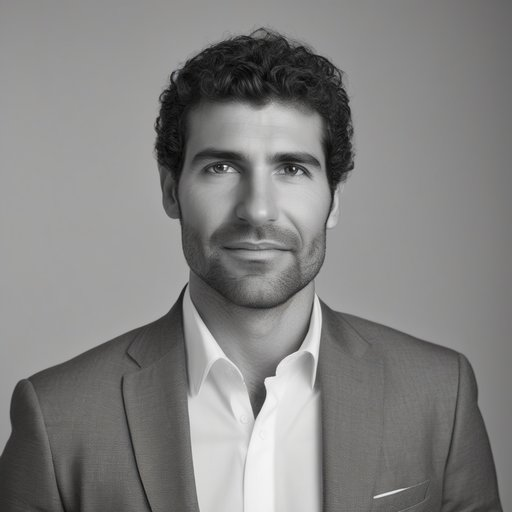
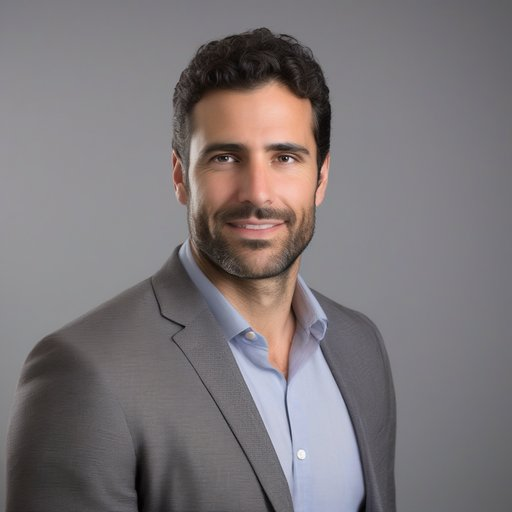
Regenerar en color las dos caras grises con un intento en la lista, sin tocar la regla de la seed (#19)
EMP000009 y EMP000362 salieron casi en blanco y negro (saturacion media 3
frente a 15-50 del resto). La seed sale de la matricula y eso no cambia:
poblacion.txt admite un septimo campo, el intento, que entra en el hash de la
seed cuando no es 0. Las otras 158 tienen el hash de siempre. La franja de
edad sigue saliendo de la matricula sola: se corrige la foto, no la persona.
El paso poblacion conserva los intentos al reescribir la lista.

Con intento 1 las dos salen en color (saturacion 44 y 22).

diff --git a/tools/fotos/generar_fotos.py b/tools/fotos/generar_fotos.py
@@ -53,6 +53,15 @@ DETERMINISMO
     EMP000025 en la misma máquina da la misma cara. Entre máquinas o tarjetas distintas no es
     reproducible bit a bit, y por eso los JPEG van al repositorio.
 
+INTENTO
+    Si una cara sale mal (la primera tanda dio dos casi en blanco y negro, EMP000009 y EMP000362),
+    no se retoca a mano ni se cambia la regla: poblacion.txt admite un séptimo campo, el intento,
+    que entra en el hash de la seed. «EMP000009|...|1» es la seed de «EMP000009|1»; sin campo, o
+    con 0, es la de siempre, así que las demás no se mueven. La franja de edad NO lo usa: sigue
+    saliendo de la matrícula sola, porque lo que se corrige es la foto, no la persona.
+        python tools/fotos/generar_fotos.py caras --solo EMP000009 EMP000362
+    El paso «poblacion» conserva los intentos que ya haya en la lista al reescribirla.
+
 SEXO
     employee.employee no tiene sexo ni fecha de nacimiento. Se deduce del nombre de pila con la
     tabla NOMBRES, que tiene los 42 de la semilla. Ante un nombre que no esté en la tabla el script
@@ -211,32 +220,37 @@ def poblacion(args: argparse.Namespace) -> None:
     if desconocidos:
         sys.exit("Nombres que no están en la tabla NOMBRES (no se adivina): " + ", ".join(desconocidos))
 
+    intentos = {m: i for m, _, i in leer_poblacion(comprobar=False)} if POBLACION.exists() else {}
     lineas = [
         "# Quién lleva cara en la semilla, y por qué (workforce-loader#19).",
         f"# La escribe tools/fotos/generar_fotos.py poblacion, desde la base {args.base}"
         + (f", restaurada de {args.semilla}." if args.semilla else "."),
         f"# Estado y centro medidos al {FECHA_DEL_ESTADO}. Una matrícula por línea, en su orden:",
-        "# matricula|nombre|sexo|centro|estado|motivo",
+        "# matricula|nombre|sexo|centro|estado|motivo[|intento]",
+        "# El intento, si está, entra en la seed de la cara (ver INTENTO en el script).",
     ]
     for matricula in sorted(motivos):
         _, nombre, centro, estado = filas[matricula]
-        lineas.append("|".join([matricula, nombre, NOMBRES[nombre], centro, estado,
-                                "; ".join(motivos[matricula])]))
+        campos = [matricula, nombre, NOMBRES[nombre], centro, estado, "; ".join(motivos[matricula])]
+        if intentos.get(matricula):
+            campos.append(str(intentos[matricula]))
+        lineas.append("|".join(campos))
     POBLACION.write_text("\n".join(lineas) + "\n", encoding="utf-8", newline="\n")
     print(f"{len(motivos)} matrículas en {POBLACION.relative_to(RAIZ)}")
 
 
-def leer_poblacion() -> list[tuple[str, str]]:
+def leer_poblacion(comprobar: bool = True) -> list[tuple[str, str, int]]:
     if not POBLACION.exists():
         sys.exit(f"Falta {POBLACION}: primero el paso «poblacion».")
     filas = []
     for linea in POBLACION.read_text(encoding="utf-8").splitlines():
         if not linea or linea.startswith("#"):
             continue
-        matricula, nombre, *_ = linea.split("|")
-        filas.append((matricula, nombre))
-    desconocidos = sorted({nombre for _, nombre in filas} - NOMBRES.keys())
-    if desconocidos:
+        campos = linea.split("|")
+        intento = int(campos[6]) if len(campos) > 6 and campos[6] else 0
+        filas.append((campos[0], campos[1], intento))
+    desconocidos = sorted({nombre for _, nombre, _ in filas} - NOMBRES.keys())
+    if comprobar and desconocidos:
         sys.exit("Nombres que no están en la tabla NOMBRES (no se adivina): " + ", ".join(desconocidos))
     return filas
 
@@ -245,8 +259,9 @@ def huella(matricula: str) -> bytes:
     return hashlib.sha256(matricula.encode("utf-8")).digest()
 
 
-def seed_de(matricula: str) -> int:
-    return int.from_bytes(huella(matricula)[:4], "big")
+def seed_de(matricula: str, intento: int = 0) -> int:
+    clave = matricula if intento == 0 else f"{matricula}|{intento}"
+    return int.from_bytes(huella(clave)[:4], "big")
 
 
 def edad_de(matricula: str) -> int:
@@ -274,9 +289,9 @@ def guardar(imagen, destino: Path) -> tuple[int, int]:
 
 def caras(args: argparse.Namespace) -> None:
     filas = leer_poblacion()
-    pendientes = [(m, n) for m, n in filas if args.rehacer or not (FOTOS / f"{m}.jpg").exists()]
+    pendientes = [f for f in filas if args.rehacer or not (FOTOS / f"{f[0]}.jpg").exists()]
     if args.solo:
-        pendientes = [(m, n) for m, n in filas if m in set(args.solo)]
+        pendientes = [f for f in filas if f[0] in set(args.solo)]
     print(f"{len(filas)} en la población, {len(pendientes)} por generar en {FOTOS.relative_to(RAIZ)}")
     if not pendientes:
         return
@@ -296,8 +311,8 @@ def caras(args: argparse.Namespace) -> None:
     pipe.set_progress_bar_config(disable=True)
 
     FOTOS.mkdir(parents=True, exist_ok=True)
-    for indice, (matricula, nombre) in enumerate(pendientes, start=1):
-        generador = torch.Generator(device="cuda").manual_seed(seed_de(matricula))
+    for indice, (matricula, nombre, intento) in enumerate(pendientes, start=1):
+        generador = torch.Generator(device="cuda").manual_seed(seed_de(matricula, intento))
         imagen = pipe(
             prompt=prompt_de(matricula, nombre),
             negative_prompt=PROMPT_NEGATIVO,
@@ -309,7 +324,8 @@ def caras(args: argparse.Namespace) -> None:
         ).images[0]
         tamano, calidad = guardar(imagen, FOTOS / f"{matricula}.jpg")
         aviso = "" if calidad == CALIDAD else f"  (calidad {calidad} para no pasar de 60 KB)"
-        print(f"[{indice}/{len(pendientes)}] {matricula} {nombre}, {edad_de(matricula)} años:"
+        print(f"[{indice}/{len(pendientes)}] {matricula} {nombre}, {edad_de(matricula)} años,"
+              f" intento {intento}:"
               f" {tamano // 1024} KB{aviso}", flush=True)
 
 
